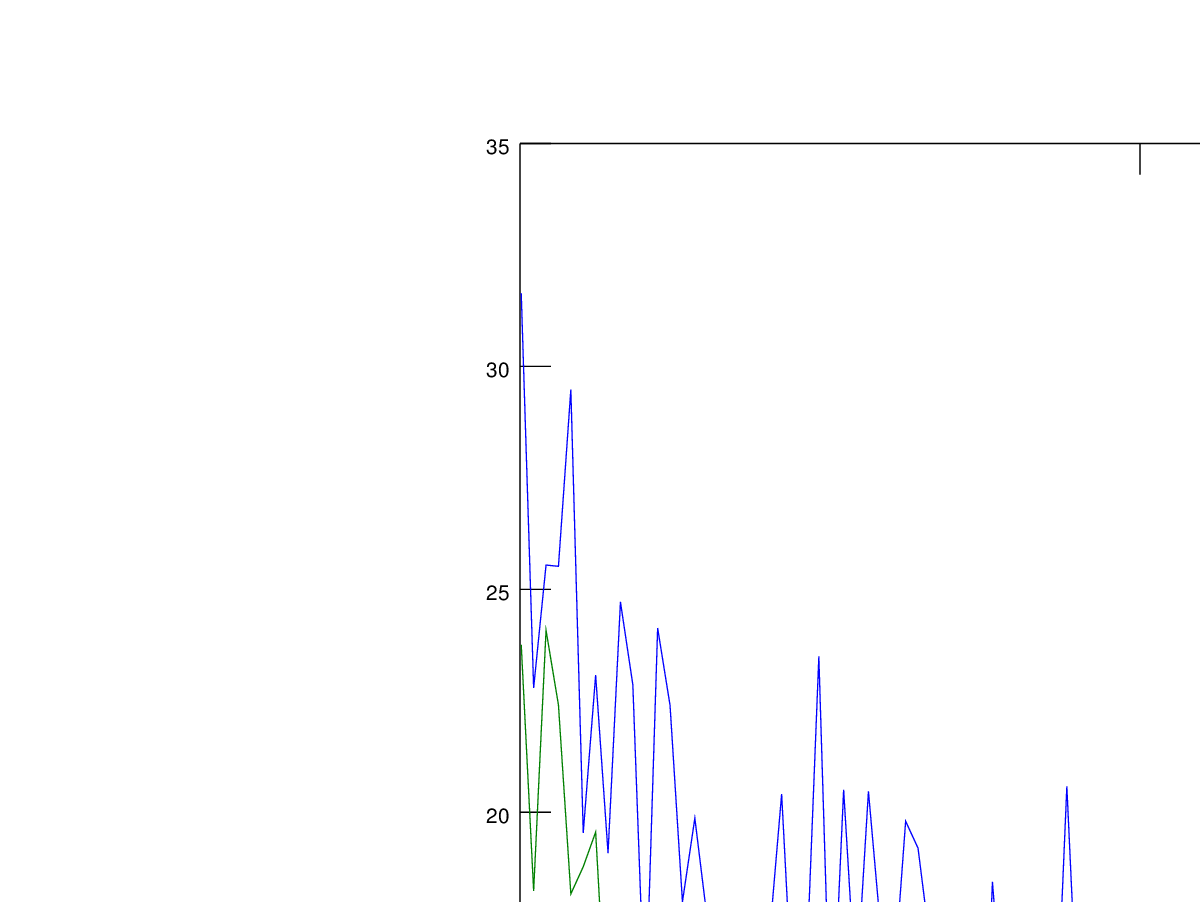
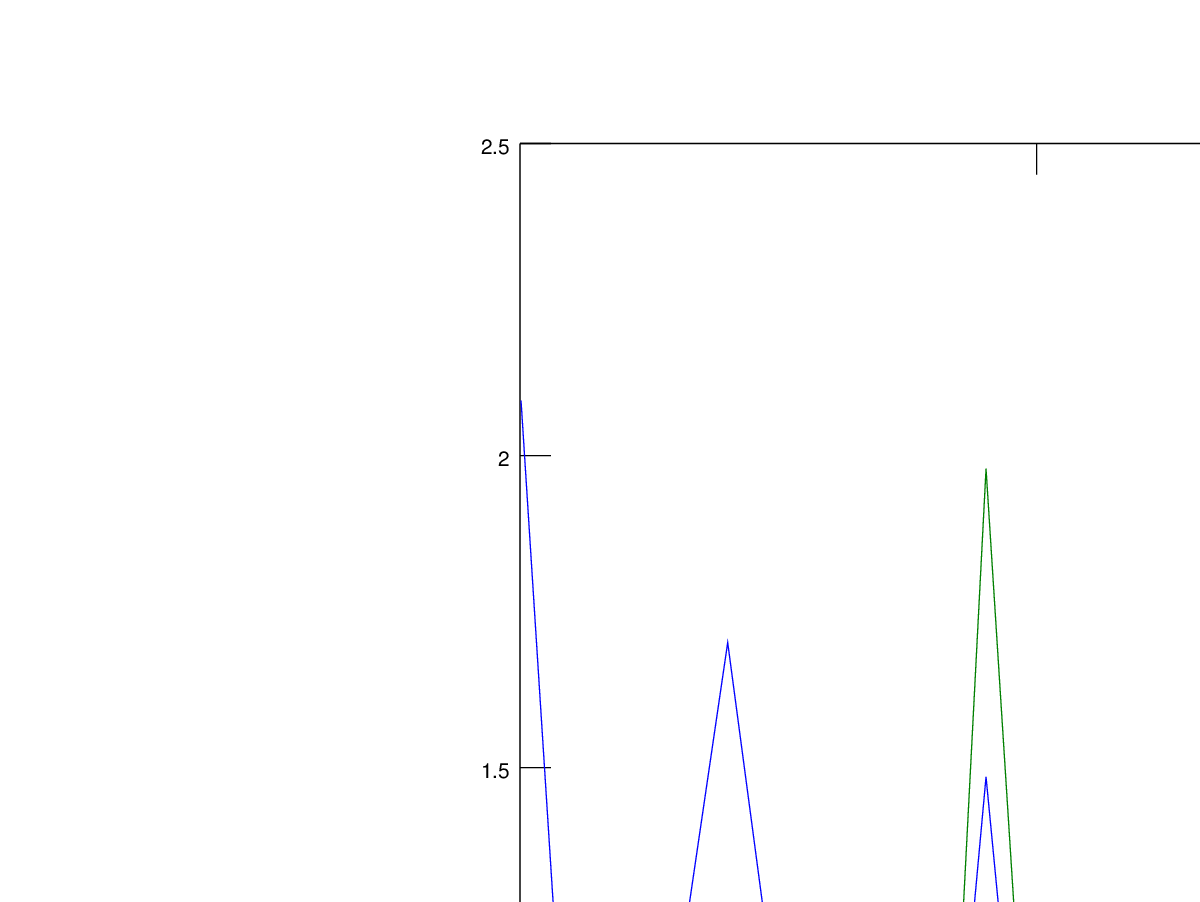
Updated the diagram.

diff --git a/README.md b/README.md
@@ -112,16 +112,13 @@ Results
 
 For the following parameters:
 
-{'n_input': 12, 'learning_rate': 0.01, 'batch_size': 20, 'training_iters': 10000, 'lstm_layers': [12, 12], 'n_steps': 5, 'n_output': 2, 'decay': 0.9999, 'input_layer': None, 'display_step': 10, 'n_targets': 23, 'n_peers': 2}
+{'n_input': 12, 'learning_rate': 0.02, 'batch_size': 16, 'training_iters': 10000, 'lstm_layers': [8, 4], 'n_steps': 5, 'n_output': 2, 'decay': 0.99995, 'input_layer': None, 'display_step': 50, 'n_targets': 23, 'n_peers': 2, 'lstm_clip': 10.0}
 
 We get:
 
 ![mean_error_training_and_test.png](mean_error_training_and_test.png)
 
-As the test set error converges at about 7 m, this is not an acceptable level
-of performance. Training set converges at about 2 m error. Even the 2 m is too
-high, and this means that we either have too fast decay for the learning rate,
-or too few parameters for the network.
+Both converge pretty fast to a value roughly corresponding the error of 0.2 m.
 
 Ideas and Notions
 =================
@@ -130,12 +127,7 @@ Ideas and Notions
    such effects, though.
  * Using only the tracked target plus two others selected randomly, because the peer targets are symmetric and
    do not bring relevant new information.
- * It might make sense to pre-train a larger LSTM stack against a huge amount of analogous, but different data,
-   and then take that as the starting point.
- * The number of learned parameters in the network should not greatly exceed the rough information content of the intuitive
-   model of the phenomenon.
- * Predicting difference to the last position might be more successful.
- * Loss based on radial coordinates might be more pleasing to the eye.
+ * Predicting difference to the last position is more successful than predicting absolute position.
 
 TODO
 ====
